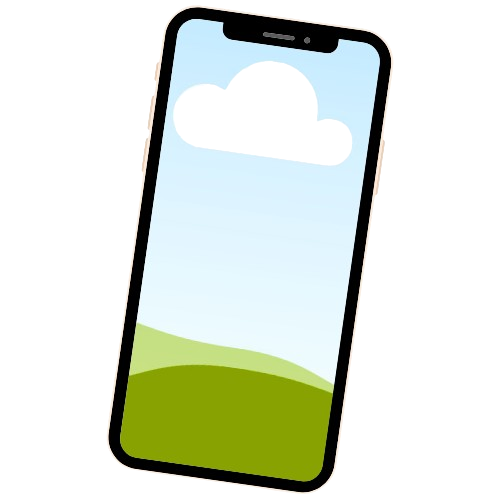
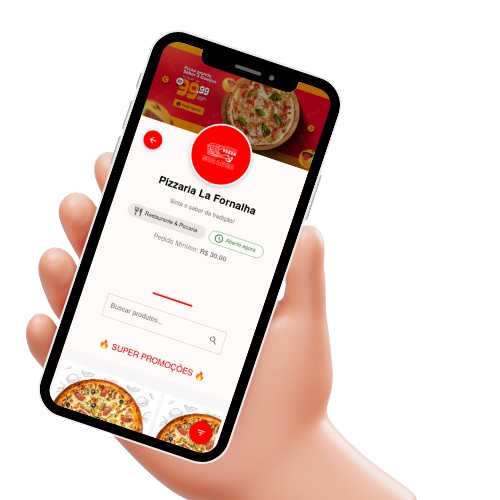
update: changing images

diff --git a/index.html b/index.html
@@ -294,6 +294,12 @@
                 z-index: 2;
             }
 
+            .hero-img-container img.phone {
+                max-width: 150%;
+                height: auto;
+                margin-top: 0px;
+            }
+
             .hero {
                 margin-top: 100px;
             }
@@ -624,6 +630,7 @@
             transition: all 0.5s cubic-bezier(0.175, 0.885, 0.32, 1.275);
             transform: rotateY(5deg);
             border: 1px solid rgba(255, 255, 255, 0.2);
+            background-color: transparent;
         }
 
         .features-img img:hover {
